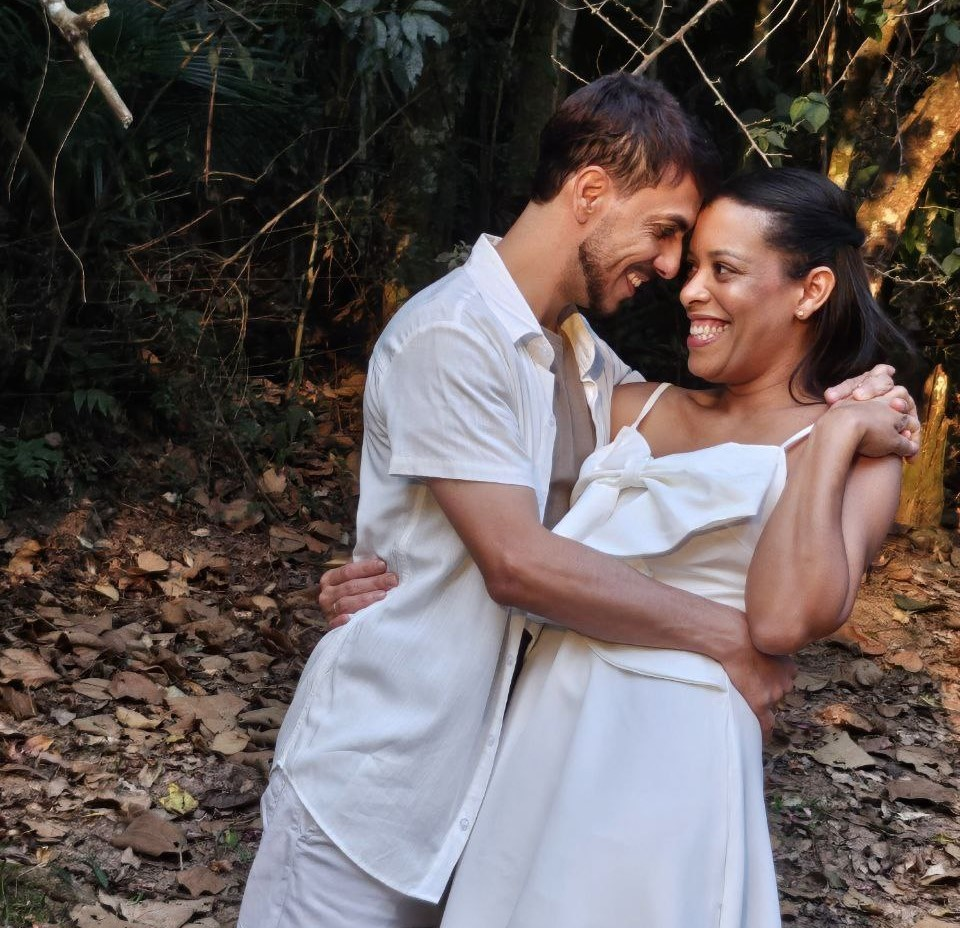
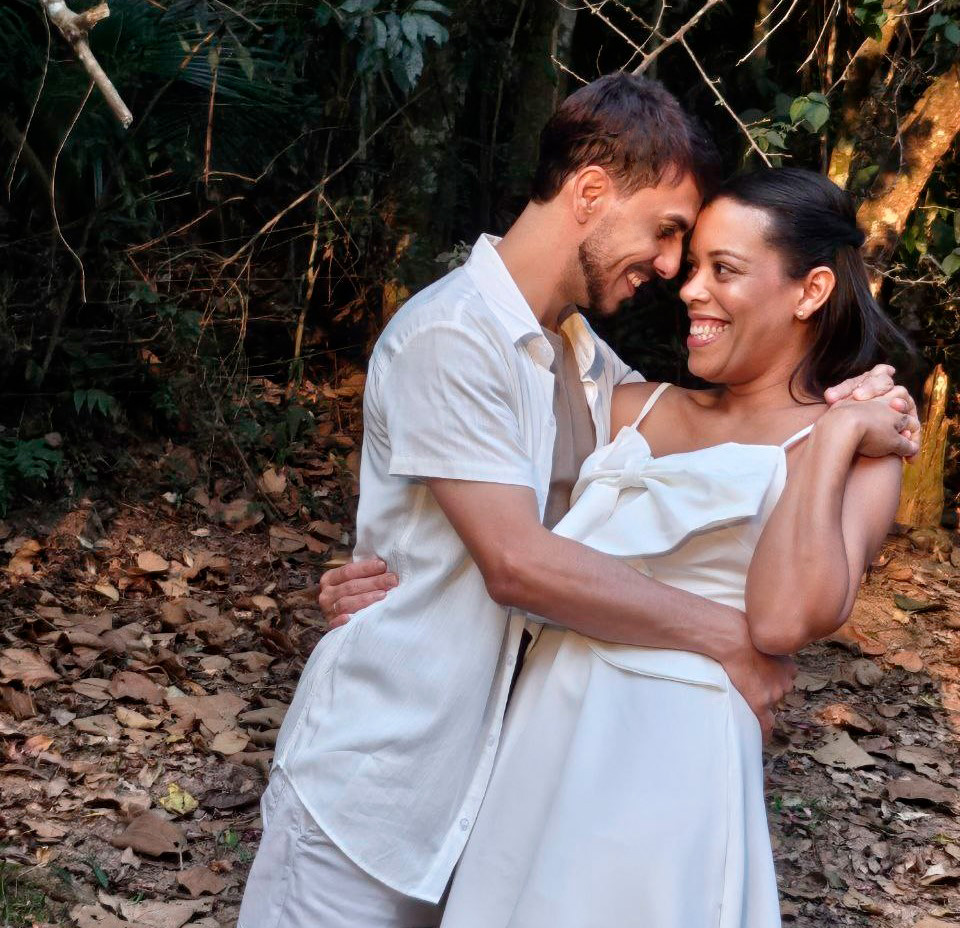
foto

diff --git a/index.html b/index.html
@@ -39,7 +39,7 @@
 
 <body>
     <header>
-        <img class="foto-header" src="imagens/header2.jpg" alt="jam e ale" class="pic">
+        <img class="foto-header" src="imagens/header.jpg" alt="jam e ale" class="pic">
         <div class="title1 flores">
             <h1 class="font-color"> Jamile & Alessandro</h1> <br>
             <h2 class="font-color" r>Save The Date</h2>
